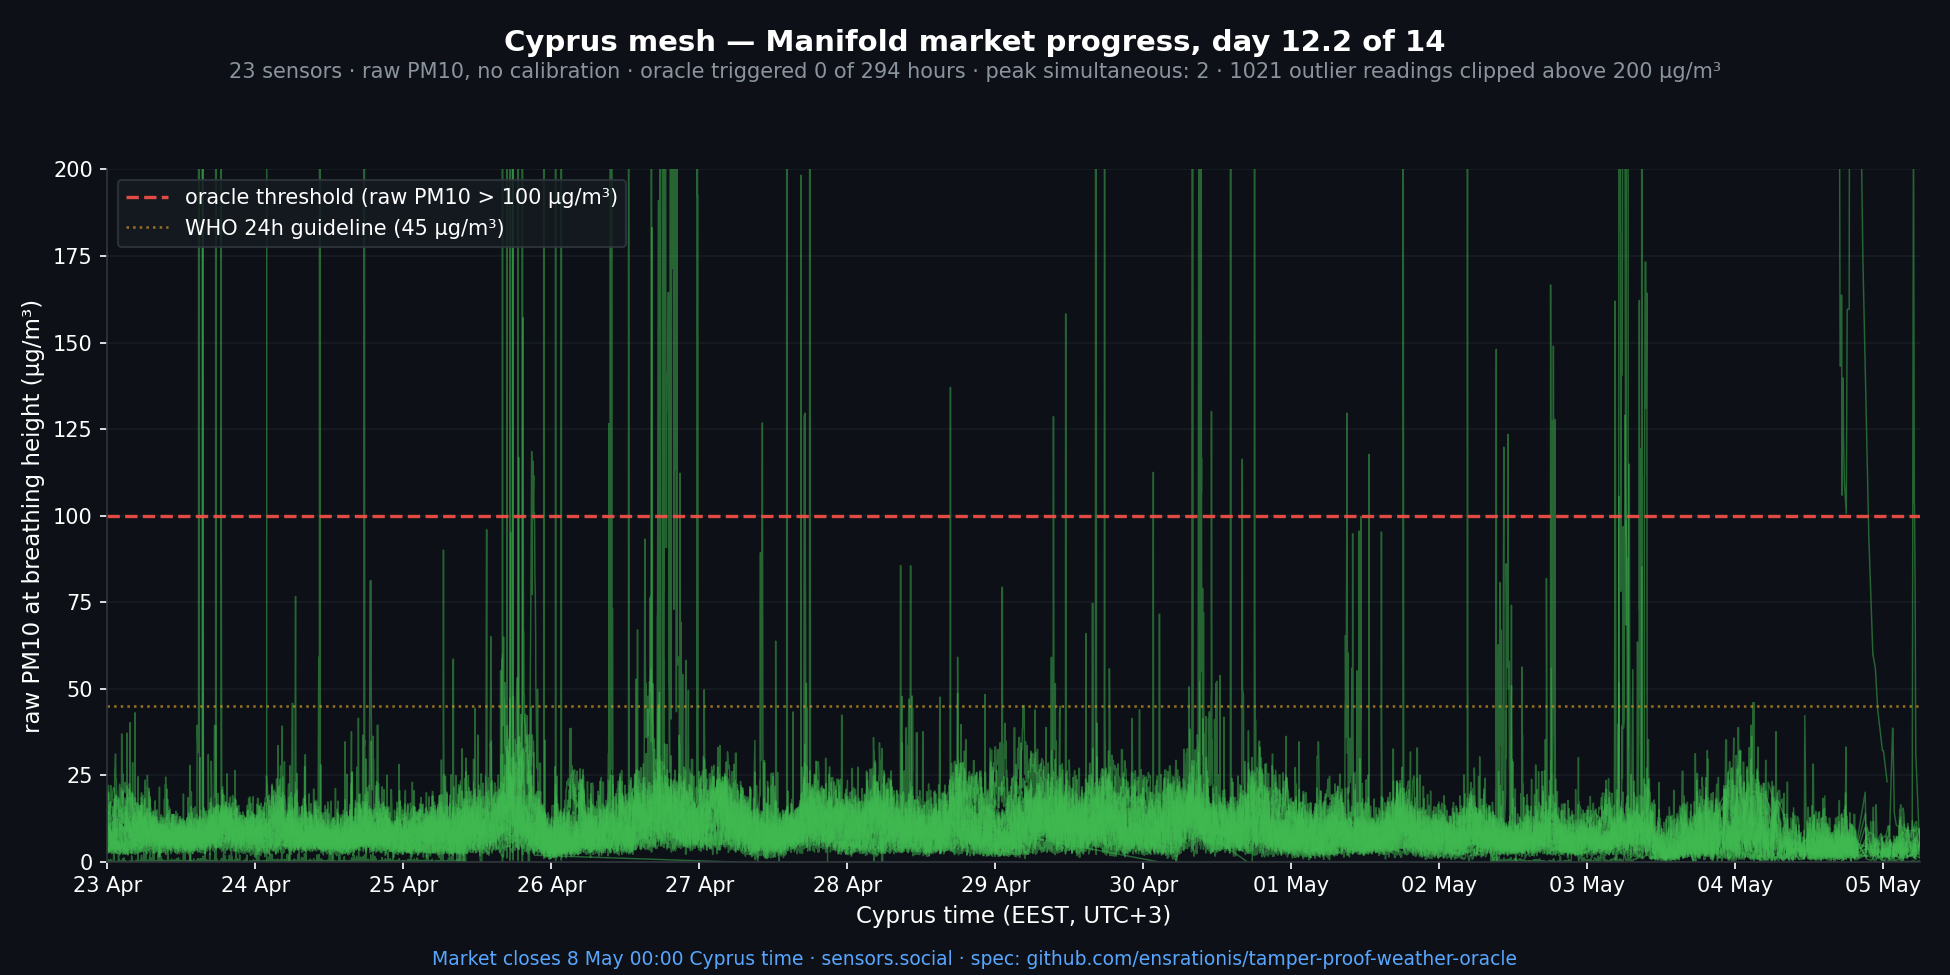
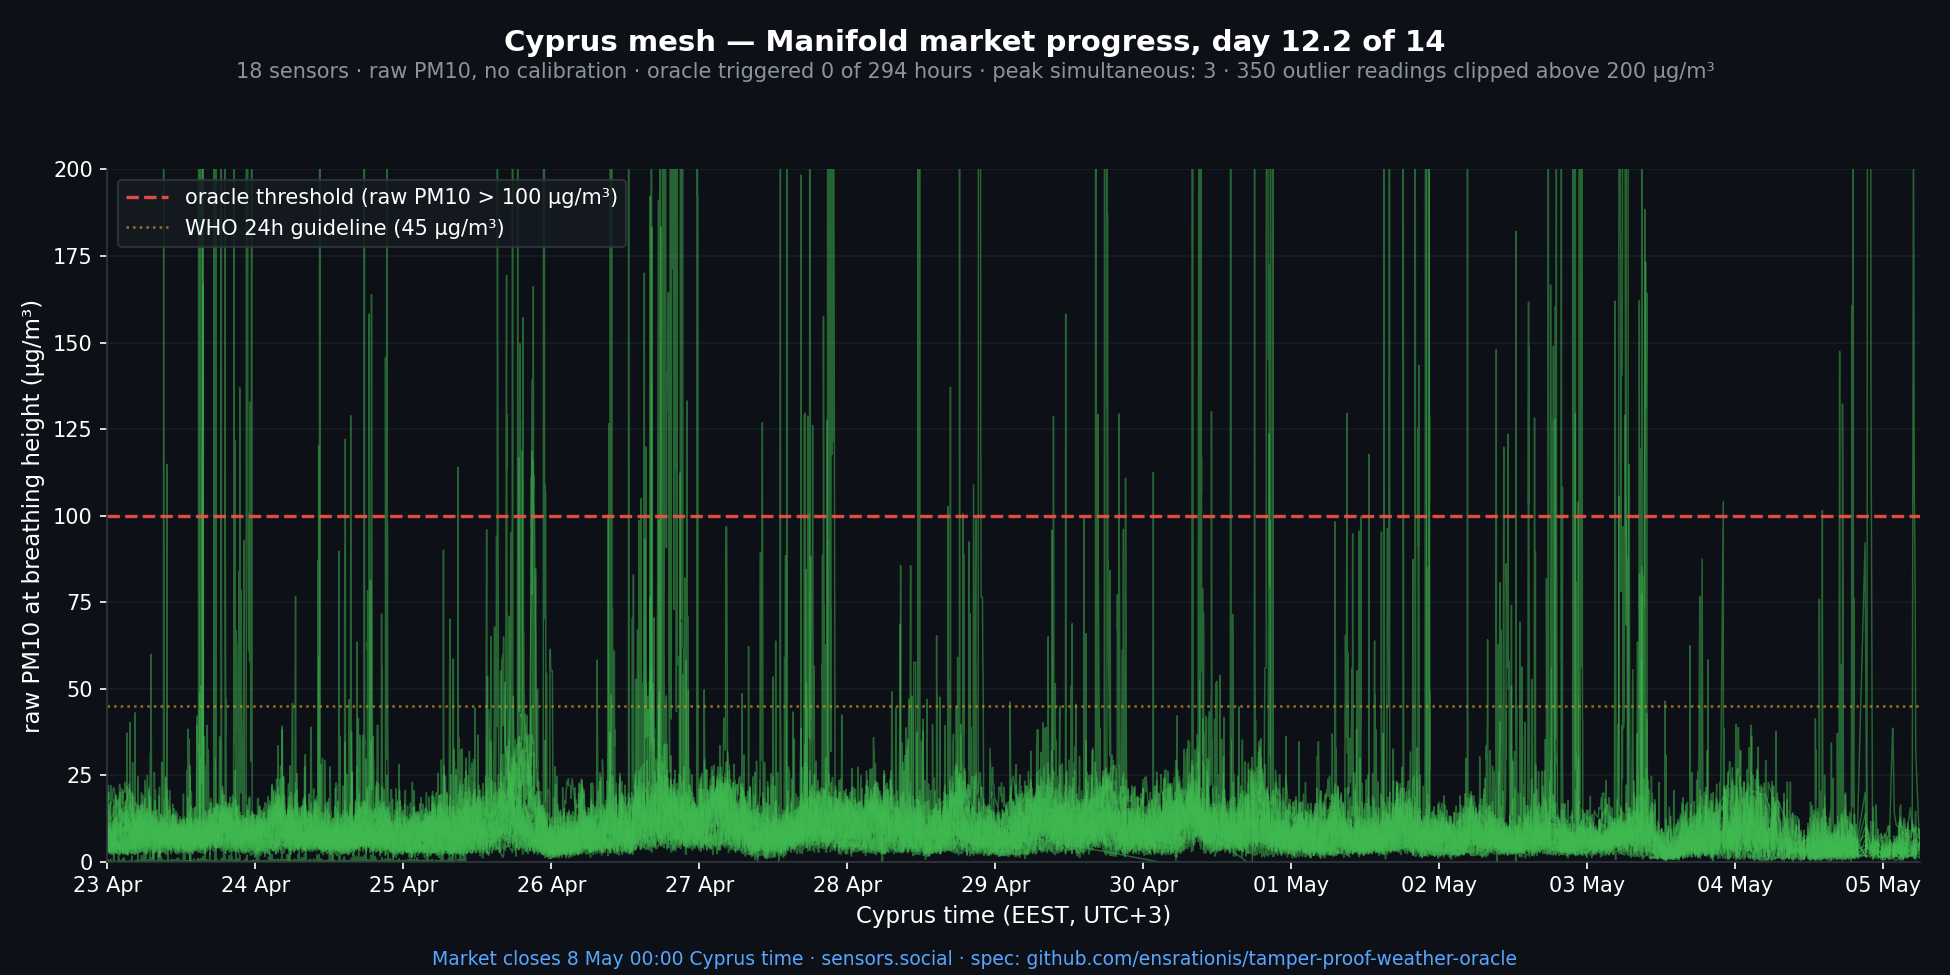
Day 12: correct numbers to use frozen 19-sensor pool per spec
Per market description, the qualified pool was frozen at market open at
19 sensors. New sensors that joined the network after open do not affect
resolution. Earlier Day 3 and Day 9 updates incorrectly reported the
total active count (21, 22) instead of the frozen pool.

- Frozen pool: 19 (committed as data/cyprus_oracle_qualified_pool.json)
- Reported in window: 18 (one sensor offline for 12 days)
- Triggered hours: 0
- Peak simultaneous: 3 of 19

diff --git a/updates/2026-05-05.md b/updates/2026-05-05.md
@@ -4,14 +4,19 @@
 
 ![Cyprus mesh — market progress](2026-05-05-cyprus-mesh.png)
 
-## Numbers
+## Numbers (per spec — frozen pool)
 
-- **Cyprus mesh active sensors**: 23 (was 19 at market open — four new devices joined the qualified pool over the window)
+The qualified pool was frozen at market open at **19 sensors** (per the market description; new sensors that joined during the window do not affect resolution). The frozen pool is committed in [`data/cyprus_oracle_qualified_pool.json`](../data/cyprus_oracle_qualified_pool.json) for audit.
+
+- **Frozen qualified pool**: 19 sensors
+- **Of which reported in window**: 18 (one sensor was offline for the entire 12 days)
 - **Oracle-triggered hours so far**: **0**
-- **Peak simultaneous over-threshold (>100 µg/m³)**: 2 of 23 sensors — a quarter of the quorum (10) at the worst single hour
+- **Peak simultaneous over-threshold (>100 µg/m³)**: **3 of 19** sensors — well under the quorum of 10
 - **Days elapsed**: 12 of 14 · **days remaining**: ~2 (close 2026-05-07 21:00 UTC)
 
-The network has now spent 12 consecutive days under the oracle threshold. No basin-wide dust event has occurred since market open.
+The network has now spent 12 consecutive days without any 1-hour window in which 10 of the original 19 sensors crossed the threshold simultaneously.
+
+> Note on previous updates: Day 3 and Day 9 updates reported "21" and "22" sensors respectively — that was the count of all PM10-reporting sensors in Cyprus at the time, including new devices that joined after market open. Per spec, only the **frozen pool of 19** is what counts toward resolution. The triggered-hour and peak-simultaneous numbers are unchanged.
 
 ## Notable atmospheric event — but the *opposite* of what the market is about
 
@@ -41,8 +46,8 @@ CAMS does not predict a dust event in the remaining window. The independent grou
 | Storm 1 | 14–16 Apr (pre-market) | 0 | 7 |
 | Storm 2 | 17–19 Apr (pre-market) | 6 (all 18 Apr) | 14 (74 % of pool) |
 | Wind/rain storm | 3–4 May | 0 (anti-dust event) | — |
-| **Market window total** | **23 Apr → today** | **0** | 2 |
+| **Market window total** | **23 Apr → today** | **0** | 3 |
 
 For YES to resolve, a Storm-2-class event needs to land in the next ~48 hours despite a CAMS forecast that explicitly rules it out. Possible but increasingly improbable.
 
-Spec: [`spec.md`](../spec.md). Previous updates: [Day 3](2026-04-26.md) · [Day 9](2026-05-02.md).
+Spec: [`spec.md`](../spec.md). Frozen pool: [`data/cyprus_oracle_qualified_pool.json`](../data/cyprus_oracle_qualified_pool.json). Previous updates: [Day 3](2026-04-26.md) · [Day 9](2026-05-02.md).